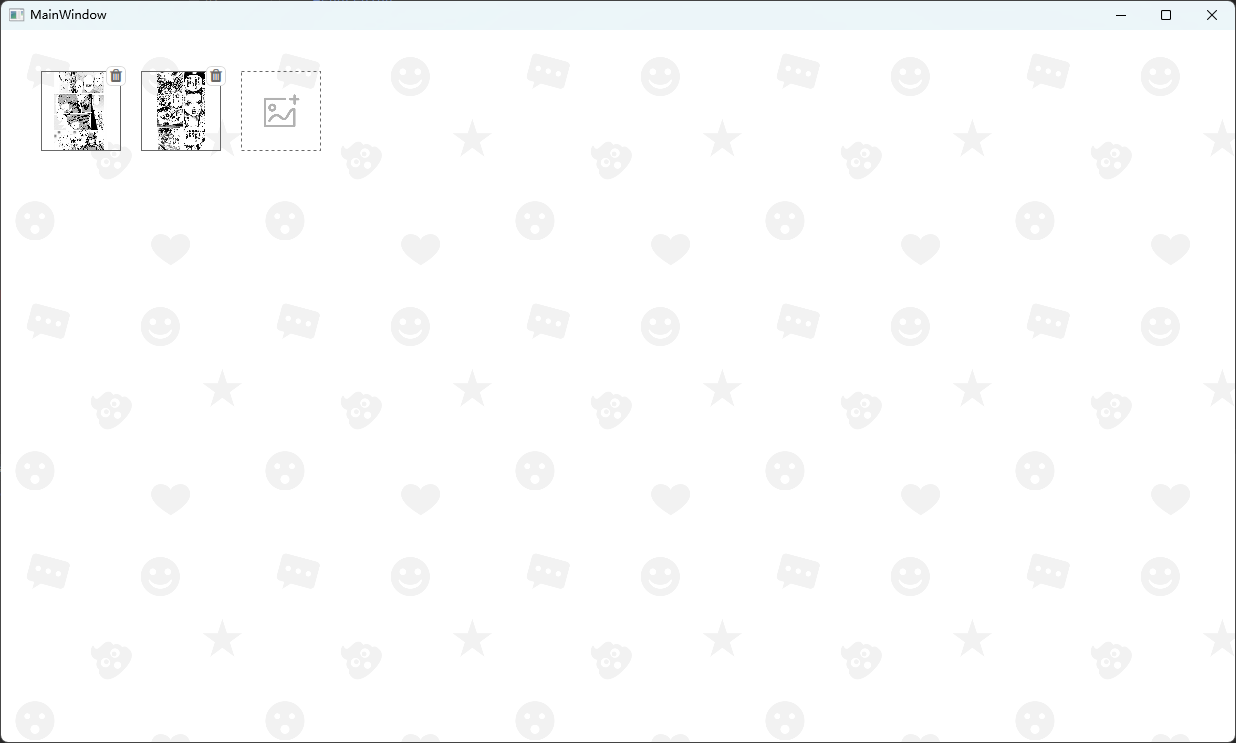
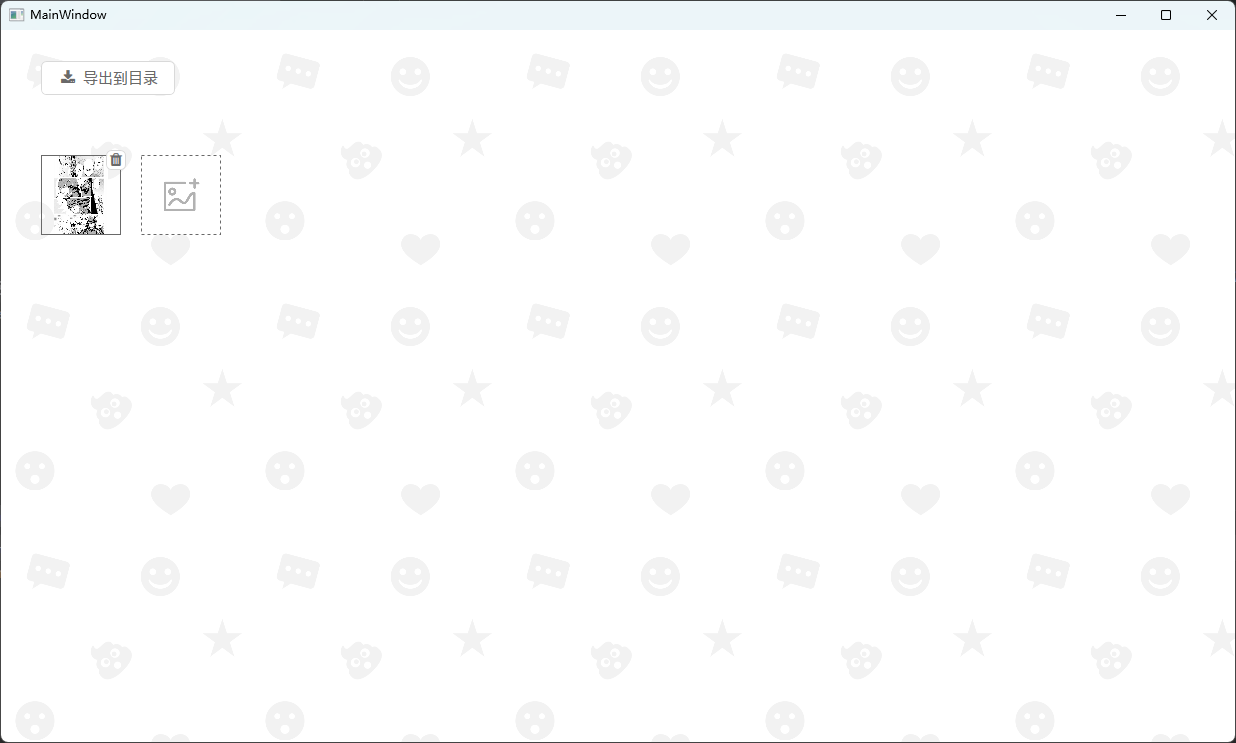
:art: 修改文档

Changed region(s): [[0.0307, 0.0929, 0.1845, 0.3405], [0.2152, 0.1238, 0.246, 0.1857], [0.123, 0.2476, 0.1537, 0.2786]]

diff --git a/README.md b/README.md
@@ -12,6 +12,9 @@
 4. 机器翻译
 5. 回填翻译后的文字
 6. 修改翻译后文字的样式
+7. 下载单张图片
+8. 暂存图片更改
+9. 批量导出修改后的图片到指定目录（压缩成zip）
 
 ## 三、界面预览
 
